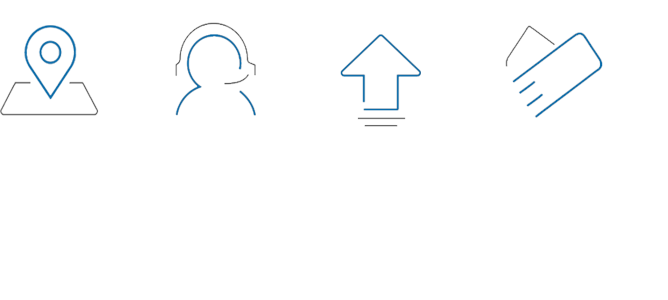
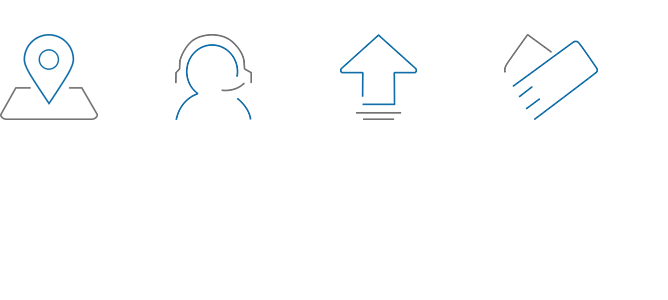
修改2017年6月7日17:51:05

diff --git a/www/routers/index.vue b/www/routers/index.vue
@@ -245,7 +245,7 @@
                     <!--</li>-->
                     <!--</ul>-->
                 </div>
-                <Modal v-model="modal5" width="420">
+                <Modal v-model="modal6" width="420">
                     <div popup>
                         <Form :model="formItem">
                             <h3>安心委托,快速成交</h3>
@@ -261,16 +261,16 @@
                                 <span class="inp_icon password"></span>
                                 <input type="num" value="" maxlength="6" required="" name="" placeholder="请输入您收到的验证码">
                             </div>
-                            <p>您也可以拨打<i> 400-810-6698 </i>直接委托房源</p>
-                            <input type="submit" class="pop_subbtn" value="提交委托"></button>
+                            <p>您也可以拨打<i> 400-078-8800 </i>直接委托房源</p>
+                            <input type="submit" class="pop_subbtn" value="提交委托">
                         </Form>
                     </div>
                 </Modal>
 
-                <Modal v-model="modal6" :styles="{top: '50px'}" width="420">
+                <Modal v-model="modal5" :styles="{top: '50px'}" width="420">
                     <div popup>
                         <Form :model="formItem">
-                            <h4>业主委托</h4>
+                            <h4>帮我找楼</h4>
 
                             <div class="popItem">
                                 <span class="inp_icon phone"></span>
@@ -281,7 +281,7 @@
                                 <span class="inp_icon password"></span>
                                 <input type="num" value="" maxlength="6" required="" name="" placeholder="请输入您收到的验证码">
                             </div>
-                            <p class="help_tips">*输入您的手机号码,以便优办提供更高效的服务</p>
+                            <p class="help_tips">*输入您的手机号码,以便幼狮提供更高效的服务</p>
 
                             <div class="clearfix">
 
@@ -319,9 +319,9 @@
 
                     </textarea>
 
-                            <p>您也可以拨打<i> 400-810-6698 </i>直接委托需求给优办</p>
+                            <p>您也可以拨打<i> 400-078-8800 </i>直接委托需求给幼狮</p>
 
-                            <input type="submit" class="pop_subbtn" value="确    认"></button>
+                            <input type="submit" class="pop_subbtn" value="确    认">
                         </Form>
                     </div>
                 </Modal>
@@ -374,7 +374,7 @@
         <!--回到顶部-->
         <Back-top :height="100" :bottom="200">
             <div class="side-contact">
-                <a class="baseIcon baseIcon-tel cur-pointer" id="sideTel" data-val="400-810-6698"></a>
+                <a class="baseIcon baseIcon-tel cur-pointer" id="sideTel" data-val="400-078-8800"></a>
                 <a class="baseIcon baseIcon-back"></a>
             </div>
         </Back-top>

diff --git a/www/resources/css/index/index.css b/www/resources/css/index/index.css
@@ -163,16 +163,16 @@
   color: #fff;
 }
 [index_content] [one_state] ul li:hover .one_tip.location {
-  background-position: 5px -137px;
+  background-position: 5px -138px;
 }
 [index_content] [one_state] ul li:hover .one_tip.service {
-  background-position: -150px -137px;
+  background-position: -150px -138px;
 }
 [index_content] [one_state] ul li:hover .one_tip.update {
-  background-position: -304px -135px;
+  background-position: -304px -138px;
 }
 [index_content] [one_state] ul li:hover .one_tip.communicate {
-  background-position: -464px -137px;
+  background-position: -464px -138px;
 }
 [index_content] [one_state] ul li:last-child {
   margin-right: 0;
@@ -187,16 +187,16 @@
   transition: .7s all ease;
 }
 [index_content] [one_state] ul li .one_tip.location {
-  background-position: 5px -10px;
+  background-position: 5px -15px;
 }
 [index_content] [one_state] ul li .one_tip.service {
-  background-position: -150px -11px;
+  background-position: -150px -16px;
 }
 [index_content] [one_state] ul li .one_tip.update {
-  background-position: -304px -21px;
+  background-position: -304px -16px;
 }
 [index_content] [one_state] ul li .one_tip.communicate {
-  background-position: -464px -13px;
+  background-position: -464px -15px;
 }
 [index_content] [one_state] ul li h4 {
   font-size: 18px;

diff --git a/www/resources/css/index/index.less b/www/resources/css/index/index.less
@@ -121,19 +121,19 @@
           }
           .one_tip {
             &.location {
-              background-position: 5px -137px;
+              background-position: 5px -138px;
             }
 
             &.service {
-              background-position: -150px -137px;
+              background-position: -150px -138px;
             }
 
             &.update {
-              background-position: -304px -135px;
+              background-position: -304px -138px;
             }
 
             &.communicate {
-              background-position: -464px -137px;
+              background-position: -464px -138px;
             }
           }
         }
@@ -149,18 +149,18 @@
           background-size: 620px 270px;
           transition: .7s all ease;
           &.location {
-            background-position: 5px -10px;
+            background-position: 5px -15px;
           }
           &.service {
-            background-position: -150px -11px;
+            background-position: -150px -16px;
           }
 
           &.update {
-            background-position: -304px -21px;
+            background-position: -304px -16px;
           }
 
           &.communicate {
-            background-position: -464px -13px;
+            background-position: -464px -15px;
           }
         }
 

diff --git a/www/routers/detail.vue b/www/routers/detail.vue
@@ -33,7 +33,7 @@
 
             <!--logo-->
             <div class="building-label clearfix">
-                <img class="fl" src="../resources/images/ys_weixin.png" alt="望京SOHO二维码">
+                <img class="fl" src="../resources/images/ys_weixin.jpg" alt="望京SOHO二维码">
                 <div class="building-tag">
                     <h1>望京SOHO</h1>
                     <ul class="tag-item">
@@ -568,7 +568,7 @@
                             <p>随时随地查阅最新房源，<br>即刻关注官方微信</p>
                             <div class="mh25">
                                 <img src="http://img2.static.uban.com/www/images/appicon72.png" alt="幼狮APP">
-                                <img src="../resources/images/ys_weixin.png" class="ml25 weixin_img"
+                                <img src="../resources/images/ys_weixin.jpg" class="ml25 weixin_img"
                                      alt="扫描二维码关注">
                             </div>
                             <p>扫描二维码关注</p>

diff --git a/www/routers/list.vue b/www/routers/list.vue
@@ -541,7 +541,7 @@
                                 <p>随时随地查阅最新房源，<br>即刻关注官方微信</p>
                                 <div class="mh25">
                                     <img src="http://img2.static.uban.com/www/images/appicon72.png" alt="幼狮APP">
-                                    <img src="../resources/images/ys_weixin.png" class="ml25 weixin_img"
+                                    <img src="../resources/images/ys_weixin.jpg" class="ml25 weixin_img"
                                          alt="扫描二维码关注">
                                 </div>
                                 <p>扫描二维码关注</p>

diff --git a/www/components/footer.vue b/www/components/footer.vue
@@ -10,8 +10,8 @@
               <p class="lion_address">地址：北京市朝阳区东三环中路39号建外SOHO东区A座2503</p>
           </div>
           <div class="fr">
-              <img src="../resources/images/ys_weixin.png" alt="幼狮微信"/>
-              <span class="weixin_text">手机客户端</span>
+              <img src="../resources/images/ys_weixin.jpg" alt="幼狮微信" style="width: 98px;height: 98px;"/>
+              <span class="weixin_text">幼狮官网</span>
           </div>
       </div>
       <div class="foot_bot">

diff --git a/www/resources/css/register/register.css b/www/resources/css/register/register.css
@@ -142,6 +142,7 @@
 }
 [top_box] .ivu-input {
   padding: 15px;
+  margin-bottom: 10px;
 }
 [top_box] .btnSubmit {
   width: 100%;

diff --git a/www/resources/css/register/register.less b/www/resources/css/register/register.less
@@ -107,7 +107,8 @@
 
   }
   .ivu-input{
-    padding: 15px
+    padding: 15px;
+    margin-bottom: 10px;
   }
 
   .btnSubmit{
